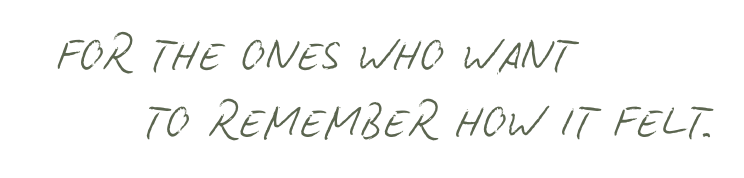
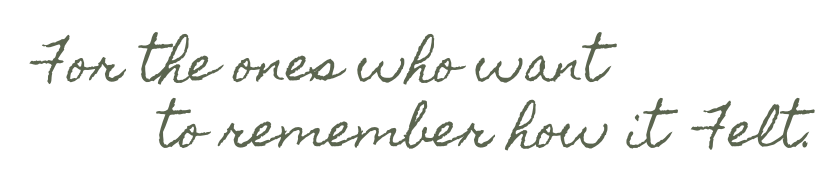
Fixed the display of font in the hero of the home section.

Changed region(s): [[0.1855, 0.5337, 0.9892, 0.8427], [0.0309, 0.1685, 0.7728, 0.4775]]

diff --git a/public/css/home.css b/public/css/home.css
@@ -108,6 +108,11 @@
  
 }
 
+#head1 img{
+  height: 9rem;
+  width: auto;
+}
+
 @media (max-width: 1024px) {
 
   .video {
@@ -125,7 +130,7 @@
   }
 
   #head1 img{
-    height: 80px;
+    height: 90px;
     width: auto;
   }
 
